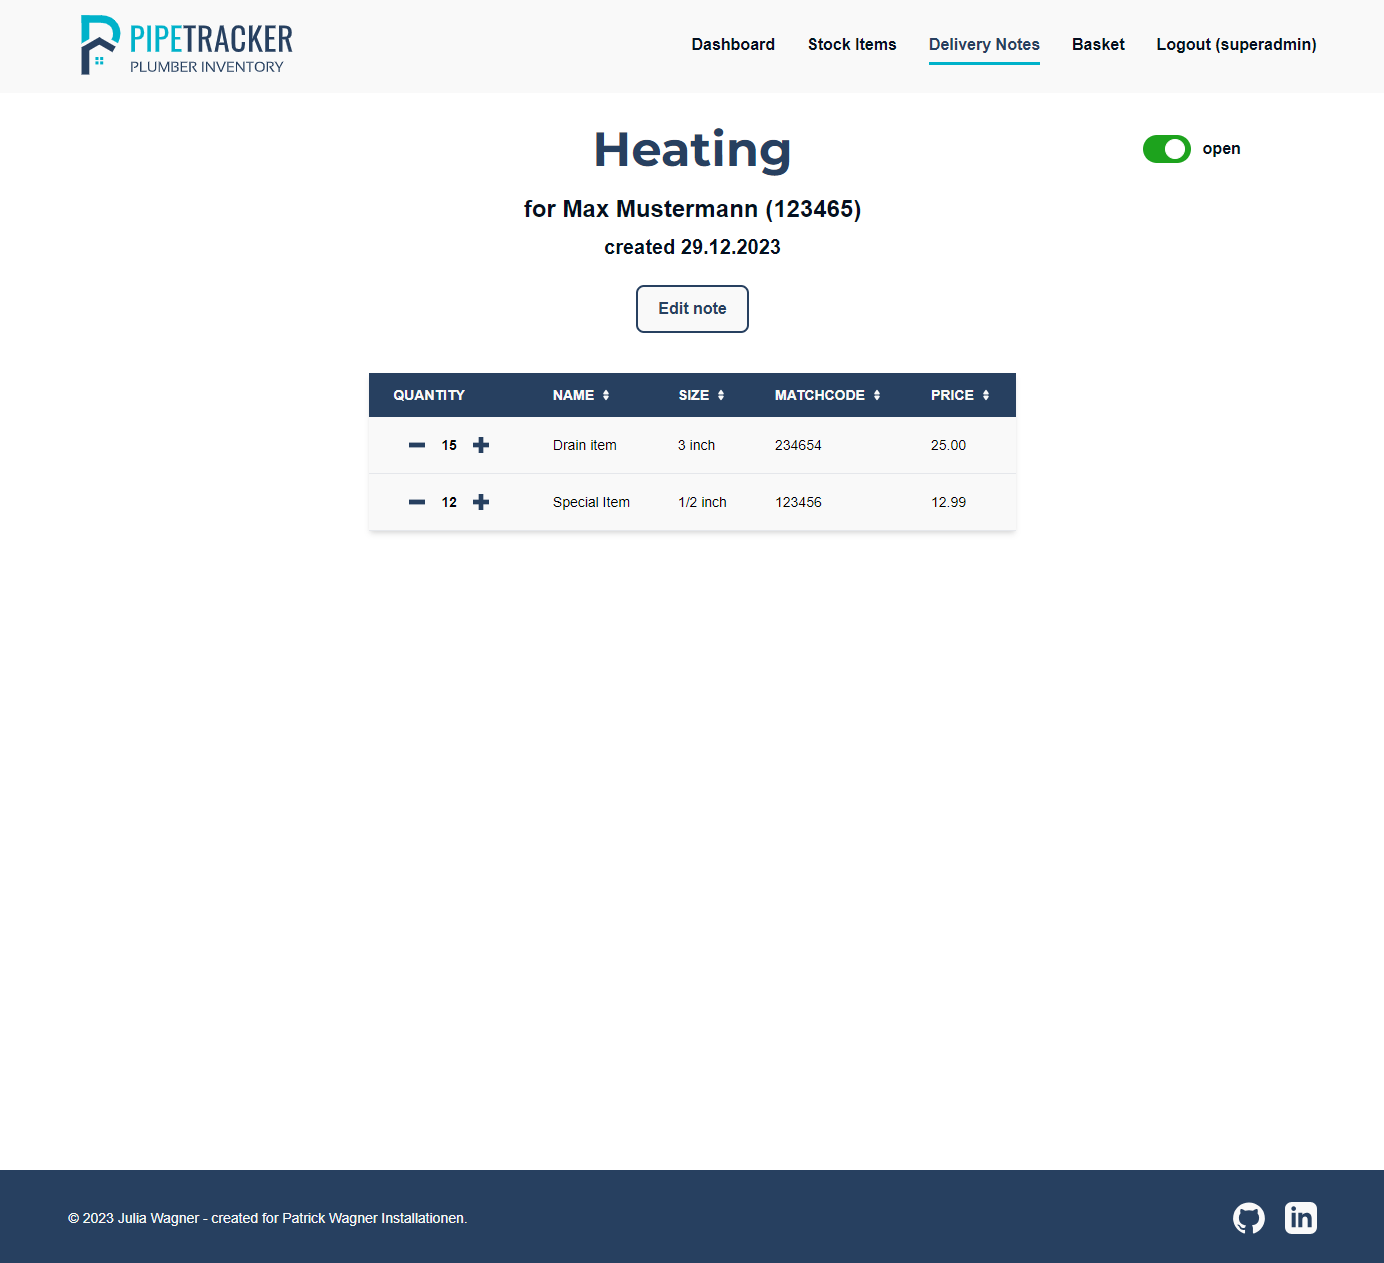
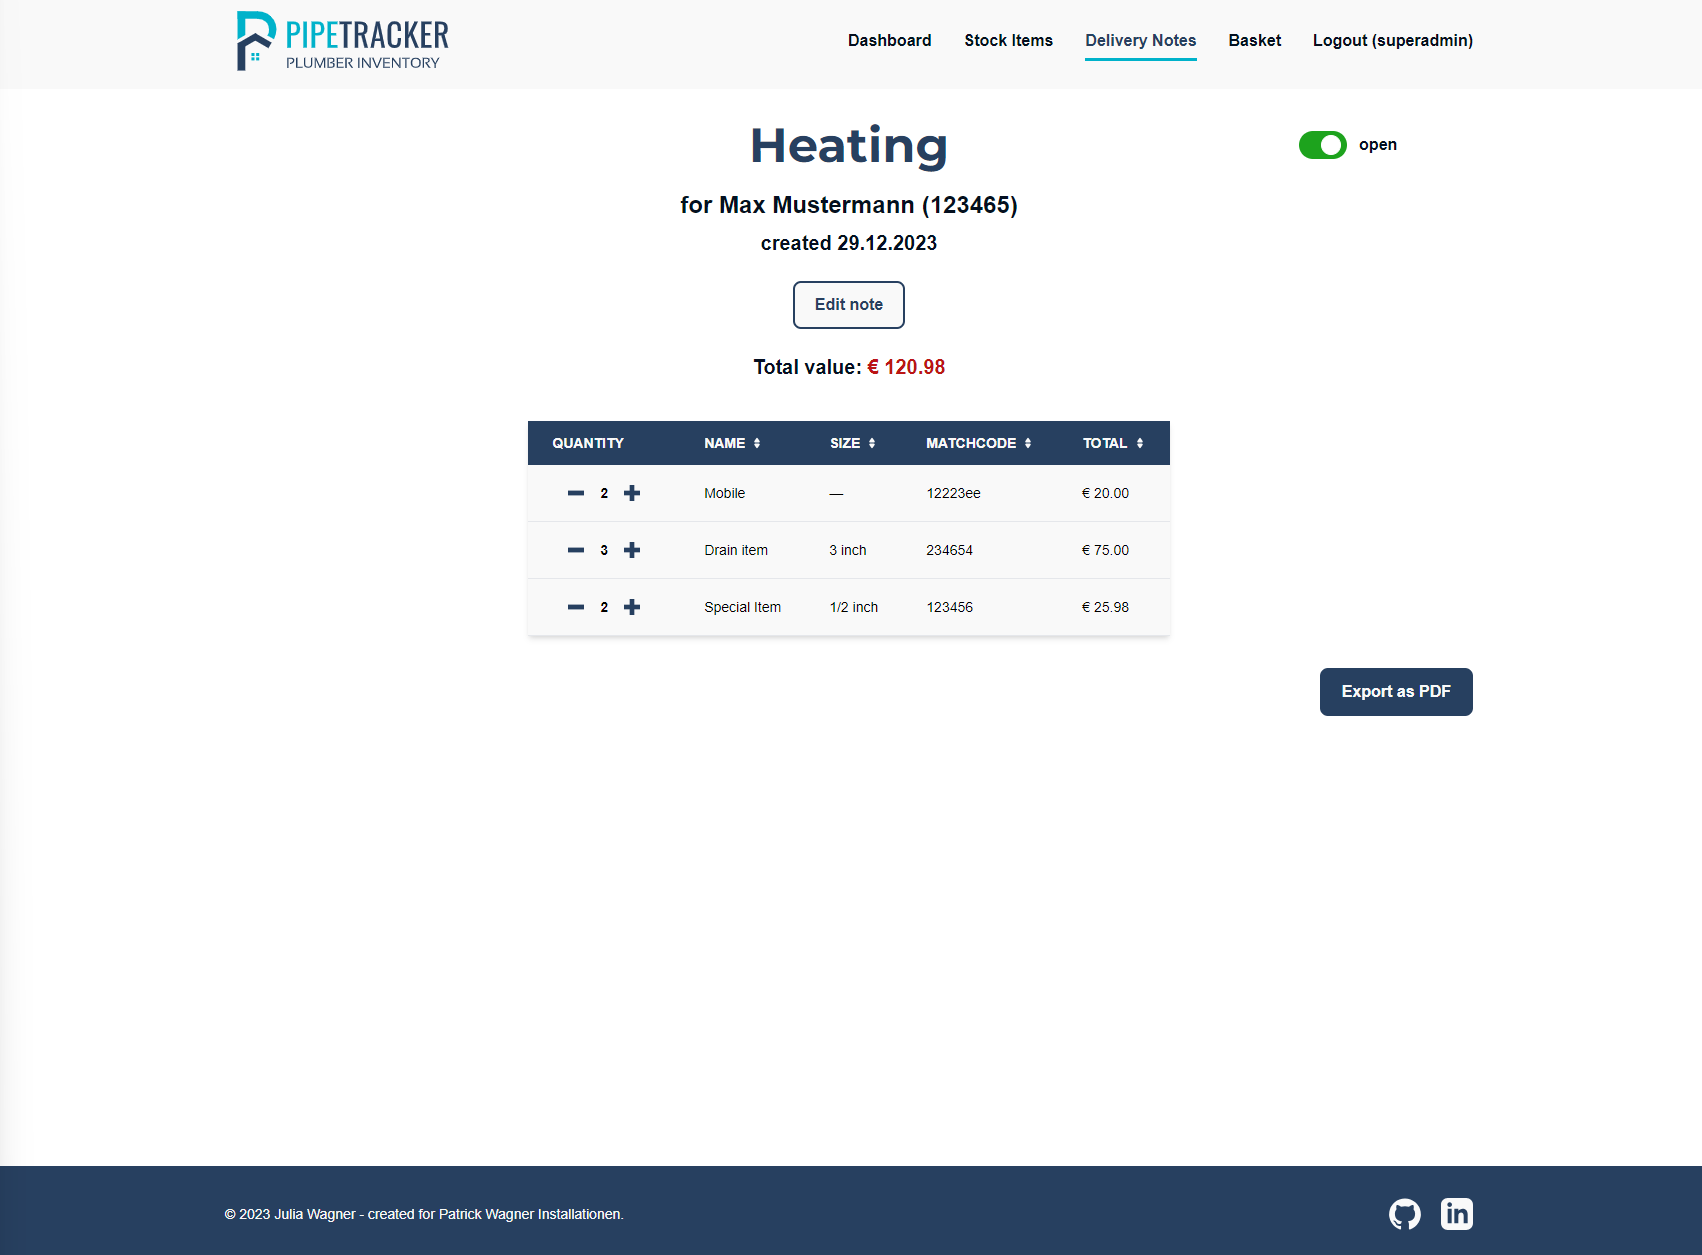
doc: add export delivery note functionality to readme and dashboard

diff --git a/home/templates/home/dashboard.html b/home/templates/home/dashboard.html
@@ -79,6 +79,7 @@
                         <li>Choose an existing customer or create a new one when adding a delivery note.</li>
                         <li>When you are done with a delivery note, you can mark it as closed.</li>
                         <li>Add items to your delivery note directly from your basket by selecting the desired note.</li>
+                        <li>Export your delivery note and save it to a PDF file.</li>
                     </ul>
                 </li>
             </ol>

diff --git a/README.md b/README.md
@@ -334,8 +334,15 @@ The detail page of a delivery note contains all the information about the delive
 
 Underneath the information about the delivery note, a table containing all the stock items added to the delivery note is shown.
 
+The button **Export as PDF** saves the delivery note data with all items to a PDF and downloads the file.
+
 ![Delivery note detail](docs/screenshots/note_detail.png)\
 *Delivery note detail*
+
+The exported PDF is really simple, but contains all the necessary information.
+
+![Exported Delivery note](docs/screenshots/note_export.png)\
+*Delivery note Export PDF*
 
 ![Edit delivery note](docs/screenshots/edit_note.png)\
 *Edit a delivery note (mobile)*
